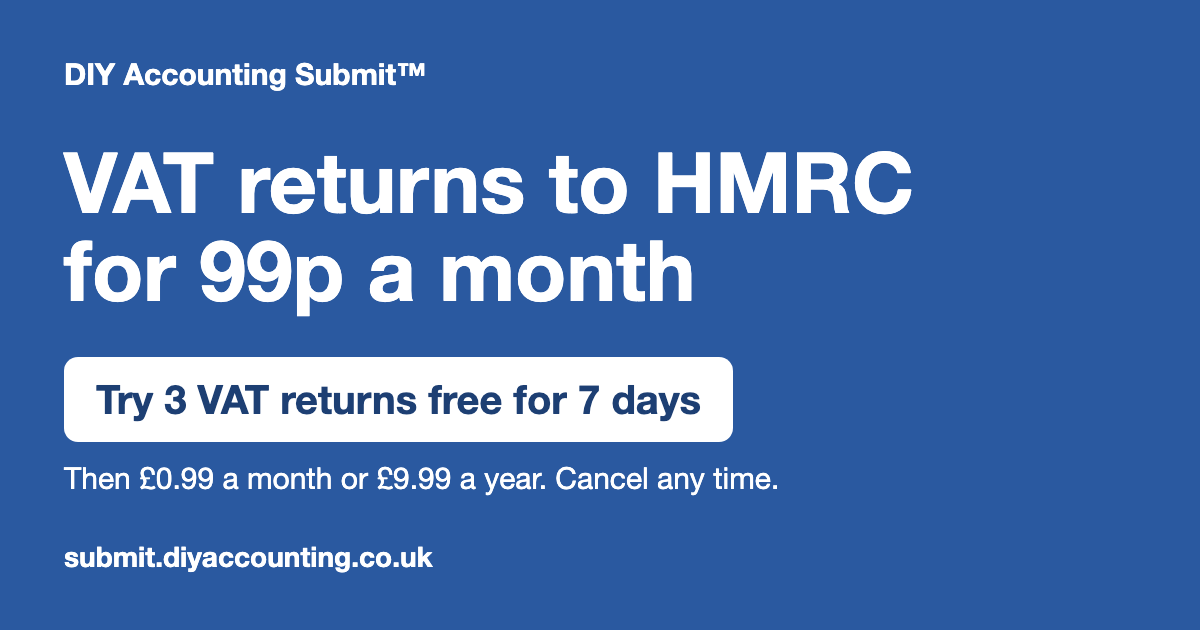
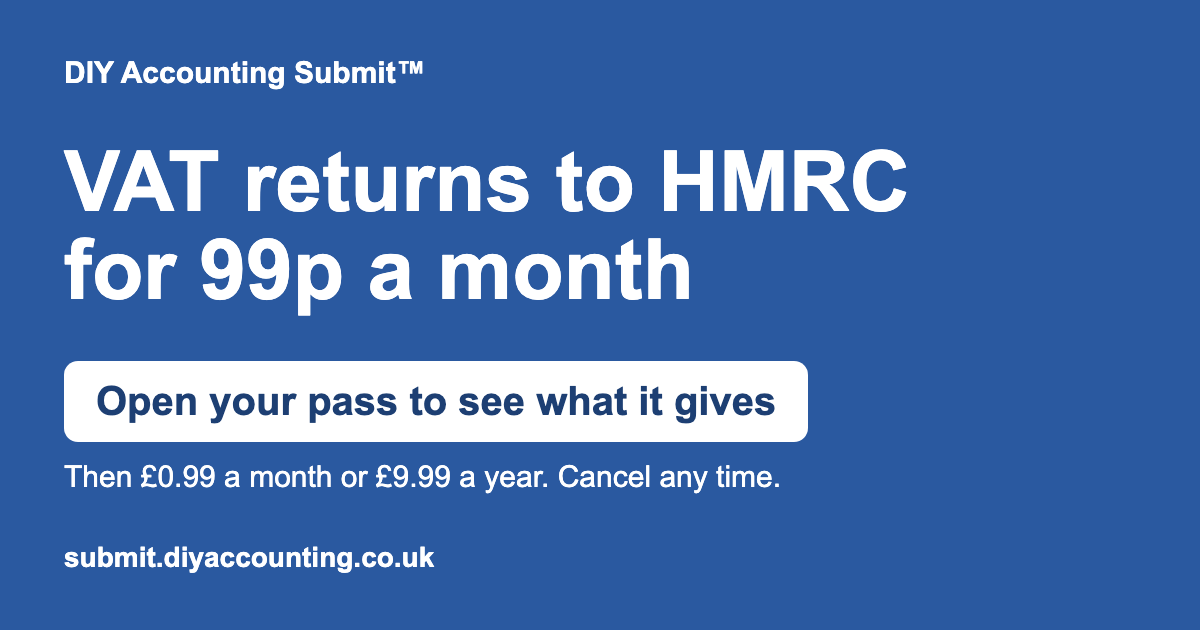
WEB11: Say the same two offers on every page: the day pass first, then a pass someone gives you
The home page told a signed-out reader that a pass link gives 3 VAT submissions for 7 days, never named
the day pass, and its reviews block rated the spreadsheets while labelled for Submit. Help and the guide
told the reader to request a pass and that none is needed.

- Home, get-started, help and the guide give the day pass sentence of the wording rules; the home
  JSON-LD offer says the same, and get-started gives the pass sentence.
- The bundles description and its share image say what is true of every pass; terms.html defines a
  pass as four words or a link that holds them; generate-digital.html states its 7-day pass in tokens,
  and so does the marketing copy that the test ties to it.
- The home review block says what it rates, and the quote about the packages leaves the home page.
- Welsh strings and hashes follow.

Claude-Model: claude-sonnet-5-5
Claude-Session: https://claude.ai/code/session_01GFg5yMsC6t4qu87dP2iSKf

diff --git a/web/public/cy/index.html b/web/public/cy/index.html
@@ -73,7 +73,7 @@
           "@type": "Offer",
           "price": "0",
           "priceCurrency": "GBP",
-          "description": "Free Day Guest access with 3 VAT submissions"
+          "description": "Try it free: sign in and request a day pass on the Bundles page. It gives you 3 tokens for 24 hours, enough for 3 VAT returns."
         },
         "author": {
           "@type": "Organization",
@@ -124,7 +124,9 @@
       <h1 data-i18n="index.heading">Ffeiliwch Ffurflenni TAW a chyfrifon cwmni o’ch taenlen</h1>
       <p class="subtitle" id="homeIntro" data-i18n="index.intro">
         Ffeiliwch Ffurflenni TAW gyda CThEF, a chyfrifon a datganiadau cadarnhau gyda Thŷ’r Cwmnïau, o’ch taenlen eich hun. Mae Ffurflenni
-        TAW yn costio £0.99 y mis neu £9.99 y flwyddyn. Mae dolen tocyn yn rhoi 3 chyflwyniad TAW i chi am ddim am 7 diwrnod yn gyntaf.
+        TAW yn costio £0.99 y mis neu £9.99 y flwyddyn. Rhowch gynnig arni am ddim: mewngofnodwch a gofynnwch am docyn diwrnod ar y dudalen
+        <a href="../bundles.html">Bundles</a>. Mae’n rhoi 3 chredyd (tokens) i chi am 24 awr, digon ar gyfer 3 Ffurflen TAW. Mae pob ffeilio
+        yn defnyddio 1 credyd.
       </p>
     </header>
 
@@ -183,23 +185,21 @@
         <ul id="featureStatusList"></ul>
       </div>
 
-      <aside class="proof-note" aria-label="Adolygiadau a rhestriad" data-i18n-aria-label="index.reviews-label">
+      <aside
+        class="proof-note"
+        aria-label="DIY Accounting, y cwmni y tu ôl i Submit, wedi’i raddio’n 5.0 o 9 adolygiad Google"
+        data-i18n-aria-label="index.reviews-label"
+      >
         <p data-i18n="index.reviews">
           <span class="proof-stars" role="img" aria-label="5 allan o 5 seren">&#9733;&#9733;&#9733;&#9733;&#9733;</span>
-          <strong>5.0</strong> <a href="https://maps.app.goo.gl/a9vQaci6xLU6v2Gr7" target="_blank" rel="noopener">9 adolygiad ar Google</a>
+          <strong>5.0</strong>
+          <a href="https://maps.app.goo.gl/a9vQaci6xLU6v2Gr7" target="_blank" rel="noopener">9 adolygiad o DIY Accounting ar Google</a>
         </p>
         <p data-i18n="index.reviews-featuredcustomers">
           <a href="https://www.featuredcustomers.com/vendor/diy-accounting" target="_blank" rel="noopener"
-            >4.8 allan o 5 ar FeaturedCustomers</a
+            >4.8 allan o 5 i DIY Accounting ar FeaturedCustomers</a
           >
         </p>
-        <blockquote lang="en-GB">
-          <p>
-            &ldquo;I highly recommend the DIY Accounting accounts packages: far better value and much simpler than expensive subscription
-            accounting packages.&rdquo;
-          </p>
-          <footer>Steve Walsh</footer>
-        </blockquote>
       </aside>
 
       <aside class="proof-note" aria-label="Teclyn chwilio meddalwedd CThEF" data-i18n-aria-label="index.finder-label">

diff --git a/web/public/index.html b/web/public/index.html
@@ -72,7 +72,7 @@
           "@type": "Offer",
           "price": "0",
           "priceCurrency": "GBP",
-          "description": "Free Day Guest access with 3 VAT submissions"
+          "description": "Try it free: sign in and request a day pass on the Bundles page. It gives you 3 tokens for 24 hours, enough for 3 VAT returns."
         },
         "author": {
           "@type": "Organization",
@@ -123,7 +123,8 @@
       <h1 data-i18n="index.heading">File VAT returns and company accounts from your spreadsheet</h1>
       <p class="subtitle" id="homeIntro" data-i18n="index.intro">
         File VAT returns with HMRC, and accounts and confirmation statements with Companies House, from your own spreadsheet. VAT returns
-        cost £0.99 a month or £9.99 a year. A pass link gives you 3 VAT submissions free for 7 days first.
+        cost £0.99 a month or £9.99 a year. Try it free: sign in and request a day pass on the <a href="bundles.html">Bundles</a> page. It
+        gives you 3 tokens for 24 hours, enough for 3 VAT returns. Each filing uses one token.
       </p>
     </header>
 
@@ -182,24 +183,21 @@
         <ul id="featureStatusList"></ul>
       </div>
 
-      <aside class="proof-note" aria-label="Reviews and listing" data-i18n-aria-label="index.reviews-label">
+      <aside
+        class="proof-note"
+        aria-label="DIY Accounting, the company behind Submit, rated 5.0 from 9 Google reviews"
+        data-i18n-aria-label="index.reviews-label"
+      >
         <p data-i18n="index.reviews">
           <span class="proof-stars" role="img" aria-label="5 out of 5 stars">&#9733;&#9733;&#9733;&#9733;&#9733;</span>
           <strong>5.0</strong>
-          <a href="https://maps.app.goo.gl/a9vQaci6xLU6v2Gr7" target="_blank" rel="noopener">9 reviews on Google</a>
+          <a href="https://maps.app.goo.gl/a9vQaci6xLU6v2Gr7" target="_blank" rel="noopener">9 reviews of DIY Accounting on Google</a>
         </p>
         <p data-i18n="index.reviews-featuredcustomers">
           <a href="https://www.featuredcustomers.com/vendor/diy-accounting" target="_blank" rel="noopener"
-            >4.8 out of 5 on FeaturedCustomers</a
+            >4.8 out of 5 for DIY Accounting on FeaturedCustomers</a
           >
         </p>
-        <blockquote lang="en-GB">
-          <p>
-            &ldquo;I highly recommend the DIY Accounting accounts packages: far better value and much simpler than expensive subscription
-            accounting packages.&rdquo;
-          </p>
-          <footer>Steve Walsh</footer>
-        </blockquote>
       </aside>
 
       <aside class="proof-note" aria-label="HMRC software finder" data-i18n-aria-label="index.finder-label">

diff --git a/web/public/cy/get-started.html b/web/public/cy/get-started.html
@@ -81,20 +81,20 @@
       <section aria-labelledby="getStartedPass">
         <h2 id="getStartedPass" data-i18n="get-started.pass-heading">Y tocyn diwrnod am ddim</h2>
         <p data-i18n="get-started.pass-1">
-          Gallwch roi cynnig ar Submit am ddim yn gyntaf. Ar y dudalen <a href="../bundles.html">Bundles</a> (yn Saesneg), gofynnwch am
-          docyn diwrnod. Mae’n rhoi 3 chredyd (tokens) i chi am 24 awr, ac mae pob cyflwyniad TAW yn defnyddio 1 credyd. Gall hyd at 100 o
+          Rhowch gynnig arni am ddim: mewngofnodwch a gofynnwch am docyn diwrnod ar y dudalen <a href="../bundles.html">Bundles</a>. Mae’n
+          rhoi 3 chredyd (tokens) i chi am 24 awr, digon ar gyfer 3 Ffurflen TAW. Mae pob ffeilio yn defnyddio 1 credyd. Gall hyd at 100 o
           westeion ddal tocyn diwrnod ar yr un pryd. Os yw’r tocynnau i gyd yn cael eu defnyddio, rhowch gynnig eto y diwrnod wedyn.
         </p>
-        <p data-i18n="get-started.pass-2">
-          Os bydd rhywun yn anfon dolen tocyn atoch, mae’n rhoi 3 chyflwyniad TAW i chi am ddim am 7 diwrnod.
-        </p>
+        <p data-i18n="get-started.pass-2">Wedi cael tocyn? Rhowch ef ar y dudalen <a href="../bundles.html">Bundles</a>.</p>
       </section>
 
       <section aria-labelledby="getStartedVat">
         <h2 id="getStartedVat" data-i18n="get-started.vat-heading">Sut i anfon eich Ffurflen TAW</h2>
         <ol>
           <li data-i18n="get-started.vat-1">Mewngofnodwch gyda’ch cyfrif Google neu Microsoft.</li>
-          <li data-i18n="get-started.vat-2">Gofynnwch am docyn diwrnod, neu tanysgrifiwch ar y dudalen Bundles.</li>
+          <li data-i18n="get-started.vat-2">
+            Ar y dudalen Bundles, gofynnwch am docyn diwrnod, rhowch docyn a gawsoch, neu tanysgrifiwch.
+          </li>
           <li data-i18n="get-started.vat-3">Dewiswch Submit VAT, ac yna rhowch eich rhif cofrestru TAW a dyddiadau’r cyfnod TAW.</li>
           <li data-i18n="get-started.vat-4">Rhowch y ffigurau ar gyfer y blychau. Mae Submit yn cyfrifo blychau 3 a 5 i chi.</li>
           <li data-i18n="get-started.vat-5">

diff --git a/web/public/get-started.html b/web/public/get-started.html
@@ -76,18 +76,18 @@
       <section aria-labelledby="getStartedPass">
         <h2 id="getStartedPass" data-i18n="get-started.pass-heading">The free day pass</h2>
         <p data-i18n="get-started.pass-1">
-          You can try Submit free first. On the <a href="bundles.html">Bundles</a> page, request a day pass. It gives you 3 tokens for 24
-          hours, and each VAT submission uses 1 token. Up to 100 guests can hold a day pass at one time. If the passes are all in use, try
-          again the next day.
+          Try it free: sign in and request a day pass on the <a href="bundles.html">Bundles</a> page. It gives you 3 tokens for 24 hours,
+          enough for 3 VAT returns. Each filing uses one token. Up to 100 guests can hold a day pass at one time. If the passes are all in
+          use, try again the next day.
         </p>
-        <p data-i18n="get-started.pass-2">If someone sends you a pass link, it gives you 3 VAT submissions free for 7 days.</p>
+        <p data-i18n="get-started.pass-2">Been given a pass? Enter it on the <a href="bundles.html">Bundles</a> page.</p>
       </section>
 
       <section aria-labelledby="getStartedVat">
         <h2 id="getStartedVat" data-i18n="get-started.vat-heading">How to file your VAT return</h2>
         <ol>
           <li data-i18n="get-started.vat-1">Log in with your Google or Microsoft account.</li>
-          <li data-i18n="get-started.vat-2">Request a day pass, or subscribe on the Bundles page.</li>
+          <li data-i18n="get-started.vat-2">On the Bundles page, request a day pass, enter a pass you were given, or subscribe.</li>
           <li data-i18n="get-started.vat-3">Choose Submit VAT, then enter your VAT registration number and the dates of the VAT period.</li>
           <li data-i18n="get-started.vat-4">Enter the figures for the boxes. Submit calculates boxes 3 and 5 for you.</li>
           <li data-i18n="get-started.vat-5">

diff --git a/web/public/passes/generate-digital.html b/web/public/passes/generate-digital.html
@@ -9,7 +9,7 @@
     <meta name="viewport" content="width=device-width, initial-scale=1.0" />
     <meta
       name="description"
-      content="Share a link that gives anyone 7 days of free VAT submissions, and earn credit when they subscribe."
+      content="Share a link that gives anyone 3 tokens for 7 days, enough for 3 VAT returns, and earn credit when they subscribe."
     />
     <link rel="canonical" href="https://submit.diyaccounting.co.uk/passes/generate-digital.html" />
     <link rel="icon" href="/favicon.ico" sizes="any" />
@@ -31,7 +31,7 @@
     <header>
       <p class="chrome-fallback"><a href="../">DIY Accounting Submit</a></p>
       <h1>Generate a digital pass</h1>
-      <p class="subtitle">Share free VAT submissions through a pass.</p>
+      <p class="subtitle">Share 3 VAT returns through a pass.</p>
     </header>
 
     <main id="mainContent">
@@ -41,8 +41,8 @@
 
       <div class="form-container pass-panel">
         <p class="pass-intro">
-          Share a link that gives anyone 7 days of free VAT submissions. Your link works for 90 days, for as many people as you share it
-          with.
+          Share a link that gives anyone 3 tokens for 7 days, enough for 3 VAT returns. Each filing uses one token. Your link works for 90
+          days, for as many people as you share it with.
         </p>
         <p id="passTerms" class="pass-intro" hidden></p>
 

diff --git a/web/marketing/index.html b/web/marketing/index.html
@@ -47,7 +47,9 @@
           <a href="https://submit.diyaccounting.co.uk/passes/generate-digital.html">Generate a pass</a>. Generating a pass uses 10 of your
           tokens. Every DIY Accounting Submit link below then carries your pass, and posts that carry it start with #ad.
         </p>
-        <p id="offerNote">Without a pass, posts offer the free day pass. Paste your pass and they offer 7 days of free VAT submissions.</p>
+        <p id="offerNote">
+          Without a pass, posts offer the free day pass. Paste your pass and they offer 3 tokens for 7 days, enough for 3 VAT returns.
+        </p>
         <div class="pass-fields">
           <div class="field">
             <label for="passCode">Pass code</label>
@@ -429,7 +431,7 @@
         <h2 id="affiliates-title" tabindex="-1">Become an affiliate</h2>
         <p>
           An affiliate shares DIY Accounting Submit and earns a share of what the people they refer pay. A referred person follows your pass
-          link and gets <span data-aff-offer>7 days of free VAT submissions</span>.
+          link and gets <span data-aff-offer>3 tokens for 7 days, enough for 3 VAT returns</span>.
         </p>
         <h3>What you earn</h3>
         <ul class="affiliate-list">

diff --git a/web/public/bundles.html b/web/public/bundles.html
@@ -7,10 +7,7 @@
     <meta charset="UTF-8" />
     <title>DIY Accounting Submit - Bundles</title>
     <meta name="viewport" content="width=device-width, initial-scale=1.0" />
-    <meta
-      name="description"
-      content="Open this link for 3 VAT returns free for 7 days. Then £0.99 a month or £9.99 a year. Cancel any time."
-    />
+    <meta name="description" content="Open this link to see what your pass gives. Then £0.99 a month or £9.99 a year. Cancel any time." />
     <link rel="canonical" href="https://submit.diyaccounting.co.uk/bundles.html" />
     <script type="application/ld+json">
       {
@@ -28,7 +25,7 @@
     <meta property="og:title" content="VAT returns to HMRC for 99p a month" />
     <meta
       property="og:description"
-      content="Open this link for 3 VAT returns free for 7 days. Then £0.99 a month or £9.99 a year. Cancel any time."
+      content="Open this link to see what your pass gives. Then £0.99 a month or £9.99 a year. Cancel any time."
     />
     <meta property="og:image" content="https://submit.diyaccounting.co.uk/images/social/og-pass.png" />
     <meta name="twitter:card" content="summary_large_image" />

diff --git a/web/unit-tests/bundles-share-preview.test.js b/web/unit-tests/bundles-share-preview.test.js
@@ -23,9 +23,10 @@ describe("bundles.html share preview", () => {
     expect(metaContent("property", "og:url")).toBe("https://submit.diyaccounting.co.uk/bundles.html");
   });
 
-  test("states the free week and the price after it, and matches the meta description", () => {
+  test("says what is true of every pass and the price after it, and matches the meta description", () => {
     const description = metaContent("property", "og:description");
-    expect(description).toContain("7 days");
+    expect(description).toContain("what your pass gives");
+    expect(description).not.toMatch(/\d+ days/);
     expect(description).toContain("£0.99 a month or £9.99 a year");
     expect(metaContent("name", "description")).toBe(description);
   });

diff --git a/web/public/terms.html b/web/public/terms.html
@@ -596,8 +596,9 @@
         <h2>22. Affiliate and referral passes</h2>
         <p><em>These terms take effect when the first affiliate is approved.</em></p>
         <p>
-          A pass is a link that gives the person who follows it 7 days of free VAT submissions. The account that made the pass earns a
-          commission when the person it brings in becomes a paying customer.
+          A pass is four words, or a link that holds them, that someone gives you. What a pass gives depends on its type: the bundle, the
+          tokens and how long they last. The account that made the pass earns a commission when the person it brings in becomes a paying
+          customer.
         </p>
         <h3>What you earn</h3>
         <ul>

diff --git a/web/browser-tests/generatePassLink.browser.test.js b/web/browser-tests/generatePassLink.browser.test.js
@@ -63,7 +63,7 @@ test.describe("Generate digital pass page", () => {
 
     await page.goto(`${SITE}/passes/generate-digital.html`, { waitUntil: "domcontentloaded" });
     const pageText = await page.locator("body").innerText();
-    expect(pageText).toContain("7 days of free VAT submissions");
+    expect(pageText).toContain("3 tokens for 7 days, enough for 3 VAT returns");
     await expect(page.locator("#passTerms")).toContainText(
       "you earn 33% of what they pay for their first 3 months, as cash paid to your bank through Stripe. If they pay for a year, you earn 25% of that payment, once.",
     );

diff --git a/web/public/guide.html b/web/public/guide.html
@@ -62,8 +62,8 @@
           to do. Select a screenshot to see it full size.
         </p>
         <p>
-          New here? Request a free day pass on the <a href="bundles.html">Bundles</a> page. No pass is needed, and you get 3 free VAT
-          submissions to try it out.
+          Try it free: sign in and request a day pass on the <a href="bundles.html">Bundles</a> page. It gives you 3 tokens for 24 hours,
+          enough for 3 VAT returns. Each filing uses one token.
         </p>
       </div>
 

diff --git a/web/public/help.html b/web/public/help.html
@@ -60,8 +60,8 @@
 
       <div class="help-page">
         <p class="help-intro">
-          New here? Request a free Day pass on the <a href="bundles.html">Bundles</a> page — no pass needed, and you get 3 free VAT
-          submissions to try it out.
+          Try it free: sign in and request a day pass on the <a href="bundles.html">Bundles</a> page. It gives you 3 tokens for 24 hours,
+          enough for 3 VAT returns.
         </p>
 
         <!-- Search box -->
